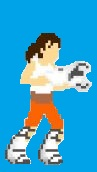
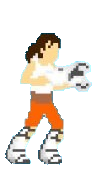
Map, jumping, tile collision.

diff --git a/core/src/me/shreyasr/portals/screen/GameScreen.java b/core/src/me/shreyasr/portals/screen/GameScreen.java
@@ -3,15 +3,25 @@ package me.shreyasr.portals.screen;
 import com.badlogic.ashley.core.PooledEngine;
 import com.badlogic.gdx.Gdx;
 import com.badlogic.gdx.ScreenAdapter;
+import com.badlogic.gdx.graphics.OrthographicCamera;
+import com.badlogic.gdx.maps.tiled.TiledMap;
+import com.badlogic.gdx.utils.viewport.ExtendViewport;
+import com.badlogic.gdx.utils.viewport.Viewport;
 
 import me.shreyasr.portals.PortalGame;
 import me.shreyasr.portals.systems.AnimationSystem;
+import me.shreyasr.portals.systems.CameraUpdateSystem;
 import me.shreyasr.portals.systems.DebugRenderSystem;
+import me.shreyasr.portals.systems.GravitySystem;
 import me.shreyasr.portals.systems.MainRenderSystem;
+import me.shreyasr.portals.systems.MiscRenderSystem;
+import me.shreyasr.portals.systems.MyPlayerMovementSystem;
 import me.shreyasr.portals.systems.PositionUpdateSystem;
+import me.shreyasr.portals.systems.TileRenderSystem;
 import me.shreyasr.portals.systems.util.PostRenderSystem;
 import me.shreyasr.portals.systems.util.PreBatchRenderSystem;
 import me.shreyasr.portals.systems.util.ShapeRenderSystem;
+import me.shreyasr.portals.util.Assets;
 import me.shreyasr.portals.util.EntityFactory;
 
 public class GameScreen extends ScreenAdapter {
@@ -19,6 +29,8 @@ public class GameScreen extends ScreenAdapter {
     private PortalGame game;
 
     public PooledEngine engine;
+    public OrthographicCamera camera;
+    public Viewport viewport;
 
     public GameScreen(PortalGame game) {
         this.game = game;
@@ -28,6 +40,11 @@ public class GameScreen extends ScreenAdapter {
 
     @Override
     public void show() {
+        camera = new OrthographicCamera(640, 480);
+        viewport = new ExtendViewport(800, 600, 1280, 720, camera);
+
+        TiledMap map = game.assetManager.get(Assets.MAP.getFile());
+
         engine = new PooledEngine();
         EntityFactory entityFactory = new EntityFactory();
 
@@ -35,12 +52,17 @@ public class GameScreen extends ScreenAdapter {
 
         int priority = 0;
         // @formatter:off
-        engine.addSystem(new PositionUpdateSystem (++priority));
-        engine.addSystem(new AnimationSystem      (++priority));
+        engine.addSystem(new GravitySystem          (++priority));
+        engine.addSystem(new MyPlayerMovementSystem (++priority));
+        engine.addSystem(new PositionUpdateSystem   (++priority, map));
+        engine.addSystem(new AnimationSystem        (++priority));
 
+        engine.addSystem(new CameraUpdateSystem   (++priority, game.batch, camera, viewport));
+        engine.addSystem(new TileRenderSystem     (++priority, game, map, camera));
         engine.addSystem(new PreBatchRenderSystem (++priority, game.batch));
         engine.addSystem(new    MainRenderSystem  (++priority, game));
-        engine.addSystem(new ShapeRenderSystem    (++priority, game.batch, game.shape));
+        engine.addSystem(new ShapeRenderSystem    (++priority, game.batch, game.shape, camera));
+        engine.addSystem(new    MiscRenderSystem  (++priority, game));
         engine.addSystem(new    DebugRenderSystem (++priority, game));
         engine.addSystem(new PostRenderSystem     (++priority, game));
         // @formatter:on
@@ -52,5 +74,10 @@ public class GameScreen extends ScreenAdapter {
     public void render(float delta) {
         if (!initialized) return;
         engine.update(Gdx.graphics.getRawDeltaTime() * 1000);
+    }
+
+    @Override
+    public void resize(int width, int height) {
+        viewport.update(width, height);
     }
 }

diff --git a/core/src/me/shreyasr/portals/systems/PositionUpdateSystem.java b/core/src/me/shreyasr/portals/systems/PositionUpdateSystem.java
@@ -3,26 +3,63 @@ package me.shreyasr.portals.systems;
 import com.badlogic.ashley.core.Entity;
 import com.badlogic.ashley.core.Family;
 import com.badlogic.ashley.systems.IteratingSystem;
+import com.badlogic.gdx.maps.tiled.TiledMap;
+import com.badlogic.gdx.maps.tiled.TiledMapTileLayer;
+import com.badlogic.gdx.math.Intersector;
+import com.badlogic.gdx.math.Rectangle;
 
+import java.util.ArrayList;
+import java.util.List;
+
+import me.shreyasr.portals.components.HitboxComponent;
 import me.shreyasr.portals.components.PositionComponent;
 import me.shreyasr.portals.components.VelocityComponent;
 
 public class PositionUpdateSystem extends IteratingSystem {
 
-    public PositionUpdateSystem(int priority) {
+    private TiledMap map;
+
+    public PositionUpdateSystem(int priority, TiledMap map) {
         super(
                 Family.all(PositionComponent.class,
                            VelocityComponent.class)
                       .get(),
                 priority);
+        this.map = map;
     }
 
     @Override
     protected void processEntity(Entity entity, float deltaTime) {
         PositionComponent pos = PositionComponent.MAPPER.get(entity);
         VelocityComponent vel = VelocityComponent.MAPPER.get(entity);
+        HitboxComponent hitbox = HitboxComponent.MAPPER.get(entity);
 
         double speedMult = (deltaTime * 60 / 1000) * 1;
+
+        List<Rectangle> tiles = new ArrayList<Rectangle>();
+
+        TiledMapTileLayer tileLayer = ((TiledMapTileLayer)map.getLayers().get(0));
+        for (int i = 0; i < tileLayer.getWidth(); i++) {
+            for (int j = 0; j < tileLayer.getHeight(); j++) {
+                if (tileLayer.getCell(i,j) != null) {
+                    Rectangle rect = new Rectangle(
+                            tileLayer.getTileWidth()*4*i, tileLayer.getTileHeight()*4*j,
+                            tileLayer.getTileWidth()*4, tileLayer.getTileHeight()*4);
+                    tiles.add(rect);
+                }
+            }
+        }
+
+        Rectangle intersection = new Rectangle();
+
+        for (Rectangle rect : tiles) {
+            if (Intersector.intersectRectangles(hitbox.rect, rect, intersection)) {
+                if (intersection.y + intersection.height > rect.y) {
+                    pos.y += intersection.height;
+                    vel.dy = 0;
+                }
+            }
+        }
 
         pos.x += vel.dx * speedMult;
         pos.y += vel.dy * speedMult;

diff --git a/core/src/me/shreyasr/portals/systems/CameraUpdateSystem.java b/core/src/me/shreyasr/portals/systems/CameraUpdateSystem.java
@@ -1,0 +1,43 @@
+package me.shreyasr.portals.systems;
+
+import com.badlogic.ashley.core.Engine;
+import com.badlogic.ashley.core.Entity;
+import com.badlogic.ashley.core.EntitySystem;
+import com.badlogic.ashley.core.Family;
+import com.badlogic.gdx.graphics.OrthographicCamera;
+import com.badlogic.gdx.graphics.g2d.SpriteBatch;
+import com.badlogic.gdx.utils.viewport.Viewport;
+
+import me.shreyasr.portals.components.MyPlayerComponent;
+import me.shreyasr.portals.components.PositionComponent;
+
+public class CameraUpdateSystem extends EntitySystem {
+
+    private final SpriteBatch batch;
+    private final OrthographicCamera camera;
+    private final Viewport viewport;
+    private Entity player;
+
+    public CameraUpdateSystem(int priority, SpriteBatch batch, OrthographicCamera camera, Viewport viewport) {
+        super(priority);
+        this.batch = batch;
+        this.camera = camera;
+        this.viewport = viewport;
+    }
+
+    public void addedToEngine(Engine engine) {
+        player = engine.getEntitiesFor(Family.all(MyPlayerComponent.class).get()).first();
+    }
+
+    @Override
+    public void update(float deltaTime) {
+        PositionComponent pos = PositionComponent.MAPPER.get(player);
+        camera.position.set(pos.x, pos.y,
+//                MathHelper.clamp(viewport.getWorldWidth()/2,  pos.x, 3840-viewport.getWorldWidth()/2),
+//                MathHelper.clamp(viewport.getWorldHeight()/2, pos.y, 3840-viewport.getWorldHeight() /2),
+                0);
+        viewport.apply();
+        camera.update();
+        batch.setProjectionMatrix(camera.combined);
+    }
+}

diff --git a/core/src/me/shreyasr/portals/systems/MyPlayerMovementSystem.java b/core/src/me/shreyasr/portals/systems/MyPlayerMovementSystem.java
@@ -1,0 +1,42 @@
+package me.shreyasr.portals.systems;
+
+import com.badlogic.ashley.core.Entity;
+import com.badlogic.ashley.core.Family;
+import com.badlogic.ashley.systems.IteratingSystem;
+import com.badlogic.gdx.Gdx;
+import com.badlogic.gdx.Input;
+
+import me.shreyasr.portals.PortalGame;
+import me.shreyasr.portals.components.MyPlayerComponent;
+import me.shreyasr.portals.components.PositionComponent;
+import me.shreyasr.portals.components.VelocityComponent;
+
+public class MyPlayerMovementSystem extends IteratingSystem {
+
+    public MyPlayerMovementSystem(int priority) {
+        super(
+                Family.all(MyPlayerComponent.class,
+                           PositionComponent.class,
+                           VelocityComponent.class)
+                        .get(),
+                priority);
+    }
+
+    @Override
+    protected void processEntity(Entity entity, float deltaTime) {
+        PositionComponent pos = PositionComponent.MAPPER.get(entity);
+        VelocityComponent vel = VelocityComponent.MAPPER.get(entity);
+
+        if (Gdx.input.isKeyPressed(Input.Keys.D)) {
+            pos.x += 1;
+        }
+
+        if (Gdx.input.isKeyPressed(Input.Keys.A)) {
+            pos.x -= 1;
+        }
+
+        if (Gdx.input.isKeyJustPressed(Input.Keys.W)) {
+            vel.dy += PortalGame.JUMP_POWER;
+        }
+    }
+}

diff --git a/core/src/me/shreyasr/portals/systems/TileRenderSystem.java b/core/src/me/shreyasr/portals/systems/TileRenderSystem.java
@@ -1,0 +1,34 @@
+package me.shreyasr.portals.systems;
+
+import com.badlogic.ashley.core.EntitySystem;
+import com.badlogic.gdx.Gdx;
+import com.badlogic.gdx.graphics.GL20;
+import com.badlogic.gdx.graphics.OrthographicCamera;
+import com.badlogic.gdx.maps.tiled.TiledMap;
+import com.badlogic.gdx.maps.tiled.renderers.OrthogonalTiledMapRenderer;
+
+import me.shreyasr.portals.PortalGame;
+
+public class TileRenderSystem extends EntitySystem {
+
+    private final PortalGame game;
+    private final OrthographicCamera camera;
+    TiledMap map;
+    OrthogonalTiledMapRenderer renderer;
+
+    public TileRenderSystem(int priority, PortalGame game, TiledMap map, OrthographicCamera camera) {
+        super(priority);
+        this.game = game;
+        this.map = map;
+        this.camera = camera;
+        renderer = new OrthogonalTiledMapRenderer(map, 4f, game.batch);
+    }
+
+    @Override
+    public void update(float deltaTime) {
+        Gdx.gl.glClearColor(0, 0, 0, 1);
+        Gdx.gl.glClear(GL20.GL_COLOR_BUFFER_BIT);
+        renderer.setView(camera);
+        renderer.render();
+    }
+}

diff --git a/core/src/me/shreyasr/portals/systems/util/ShapeRenderSystem.java b/core/src/me/shreyasr/portals/systems/util/ShapeRenderSystem.java
@@ -1,6 +1,7 @@
 package me.shreyasr.portals.systems.util;
 
 import com.badlogic.ashley.core.EntitySystem;
+import com.badlogic.gdx.graphics.OrthographicCamera;
 import com.badlogic.gdx.graphics.g2d.SpriteBatch;
 import com.badlogic.gdx.graphics.glutils.ShapeRenderer;
 
@@ -8,15 +9,19 @@ public class ShapeRenderSystem extends EntitySystem {
 
     private final SpriteBatch batch;
     private final ShapeRenderer shape;
+    private OrthographicCamera camera;
 
-    public ShapeRenderSystem(int priority, SpriteBatch batch, ShapeRenderer shape) {
+    public ShapeRenderSystem(int priority, SpriteBatch batch, ShapeRenderer shape, OrthographicCamera camera) {
         super(priority);
         this.batch = batch;
         this.shape = shape;
+        this.camera = camera;
     }
 
     public void update(float deltaTime) {
         batch.end();
+
+        shape.setProjectionMatrix(camera.combined);
         shape.begin();
     }
 }

diff --git a/core/src/me/shreyasr/portals/systems/GravitySystem.java b/core/src/me/shreyasr/portals/systems/GravitySystem.java
@@ -1,0 +1,24 @@
+package me.shreyasr.portals.systems;
+
+import com.badlogic.ashley.core.Entity;
+import com.badlogic.ashley.core.Family;
+import com.badlogic.ashley.systems.IteratingSystem;
+
+import me.shreyasr.portals.PortalGame;
+import me.shreyasr.portals.components.VelocityComponent;
+
+public class GravitySystem extends IteratingSystem {
+
+    public GravitySystem(int priority) {
+        super(
+                Family.all(VelocityComponent.class)
+                        .get(),
+                priority);
+    }
+
+    @Override
+    protected void processEntity(Entity entity, float deltaTime) {
+        VelocityComponent vel = VelocityComponent.MAPPER.get(entity);
+        vel.dy -= PortalGame.GRAVITY_CONSTANT;
+    }
+}

diff --git a/core/src/me/shreyasr/portals/util/MathHelper.java b/core/src/me/shreyasr/portals/util/MathHelper.java
@@ -1,0 +1,21 @@
+package me.shreyasr.portals.util;
+
+public class MathHelper {
+    
+    /** My favorite method. */
+    public static double clamp(double lo, double val, double hi) {
+        return (lo<=val)?((val<=hi)?val:((lo<hi)?hi:lo)):((lo<=hi)?lo:((val<hi)?hi:val));
+    }
+
+    public static float clamp(float lo, float val, float hi) {
+        return (float)clamp((double)lo, (double)val, (double)hi);
+    }
+
+    public static long clamp(long lo, long val, long hi) {
+        return (int) clamp((double)lo, (double)val, (double)hi);
+    }
+
+    public static int clamp(int lo, int val, int hi) {
+        return (int) clamp((long)lo, (long)val, (long)hi);
+    }
+}

diff --git a/core/src/me/shreyasr/portals/systems/MiscRenderSystem.java b/core/src/me/shreyasr/portals/systems/MiscRenderSystem.java
@@ -1,0 +1,25 @@
+package me.shreyasr.portals.systems;
+
+import com.badlogic.ashley.core.EntitySystem;
+import com.badlogic.gdx.graphics.Color;
+import com.badlogic.gdx.graphics.glutils.ShapeRenderer;
+
+import me.shreyasr.portals.PortalGame;
+
+public class MiscRenderSystem extends EntitySystem {
+
+    private final PortalGame game;
+
+    public MiscRenderSystem(int priority, PortalGame game) {
+        super(priority);
+        this.game = game;
+    }
+
+    @Override
+    public void update(float deltaTime) {
+        game.shape.set(ShapeRenderer.ShapeType.Line);
+
+        game.shape.setColor(Color.RED);
+        game.shape.rect(50, 50, 100, 100);
+    }
+}

diff --git a/core/src/me/shreyasr/portals/util/EntityFactory.java b/core/src/me/shreyasr/portals/util/EntityFactory.java
@@ -26,7 +26,7 @@ public class EntityFactory {
     private Entity createDumbPlayer(PooledEngine engine, float x, float y) {
         Entity e = engine.createEntity();
 
-        e.add(AnimationComponent.create(engine, 4, 64, 165, 166));
+        e.add(AnimationComponent.create(engine, 1, 97, 172, 166));
         e.add(HitboxComponent.create(engine));
         e.add(PositionComponent.create(engine, x, y));
         e.add(TextureComponent.create(engine, Assets.PLAYER.getFile()));

diff --git a/core/src/me/shreyasr/portals/util/Assets.java b/core/src/me/shreyasr/portals/util/Assets.java
@@ -8,8 +8,8 @@ import com.badlogic.gdx.maps.tiled.TmxMapLoader;
 
 public enum Assets {
 
-    PLAYER (Texture.class, "player.png");
-//    MAP    (TiledMap.class, "maps/map.tmx");
+    PLAYER (Texture.class, "chelle.png"),
+    MAP    (TiledMap.class, "maps/map1.tmx");
 
     private final Class type;
     private final String file;

diff --git a/core/src/me/shreyasr/portals/systems/util/PreBatchRenderSystem.java b/core/src/me/shreyasr/portals/systems/util/PreBatchRenderSystem.java
@@ -1,9 +1,7 @@
 package me.shreyasr.portals.systems.util;
 
 import com.badlogic.ashley.core.EntitySystem;
-import com.badlogic.gdx.graphics.OrthographicCamera;
 import com.badlogic.gdx.graphics.g2d.SpriteBatch;
-import com.badlogic.gdx.utils.viewport.Viewport;
 
 public class PreBatchRenderSystem extends EntitySystem {
 
